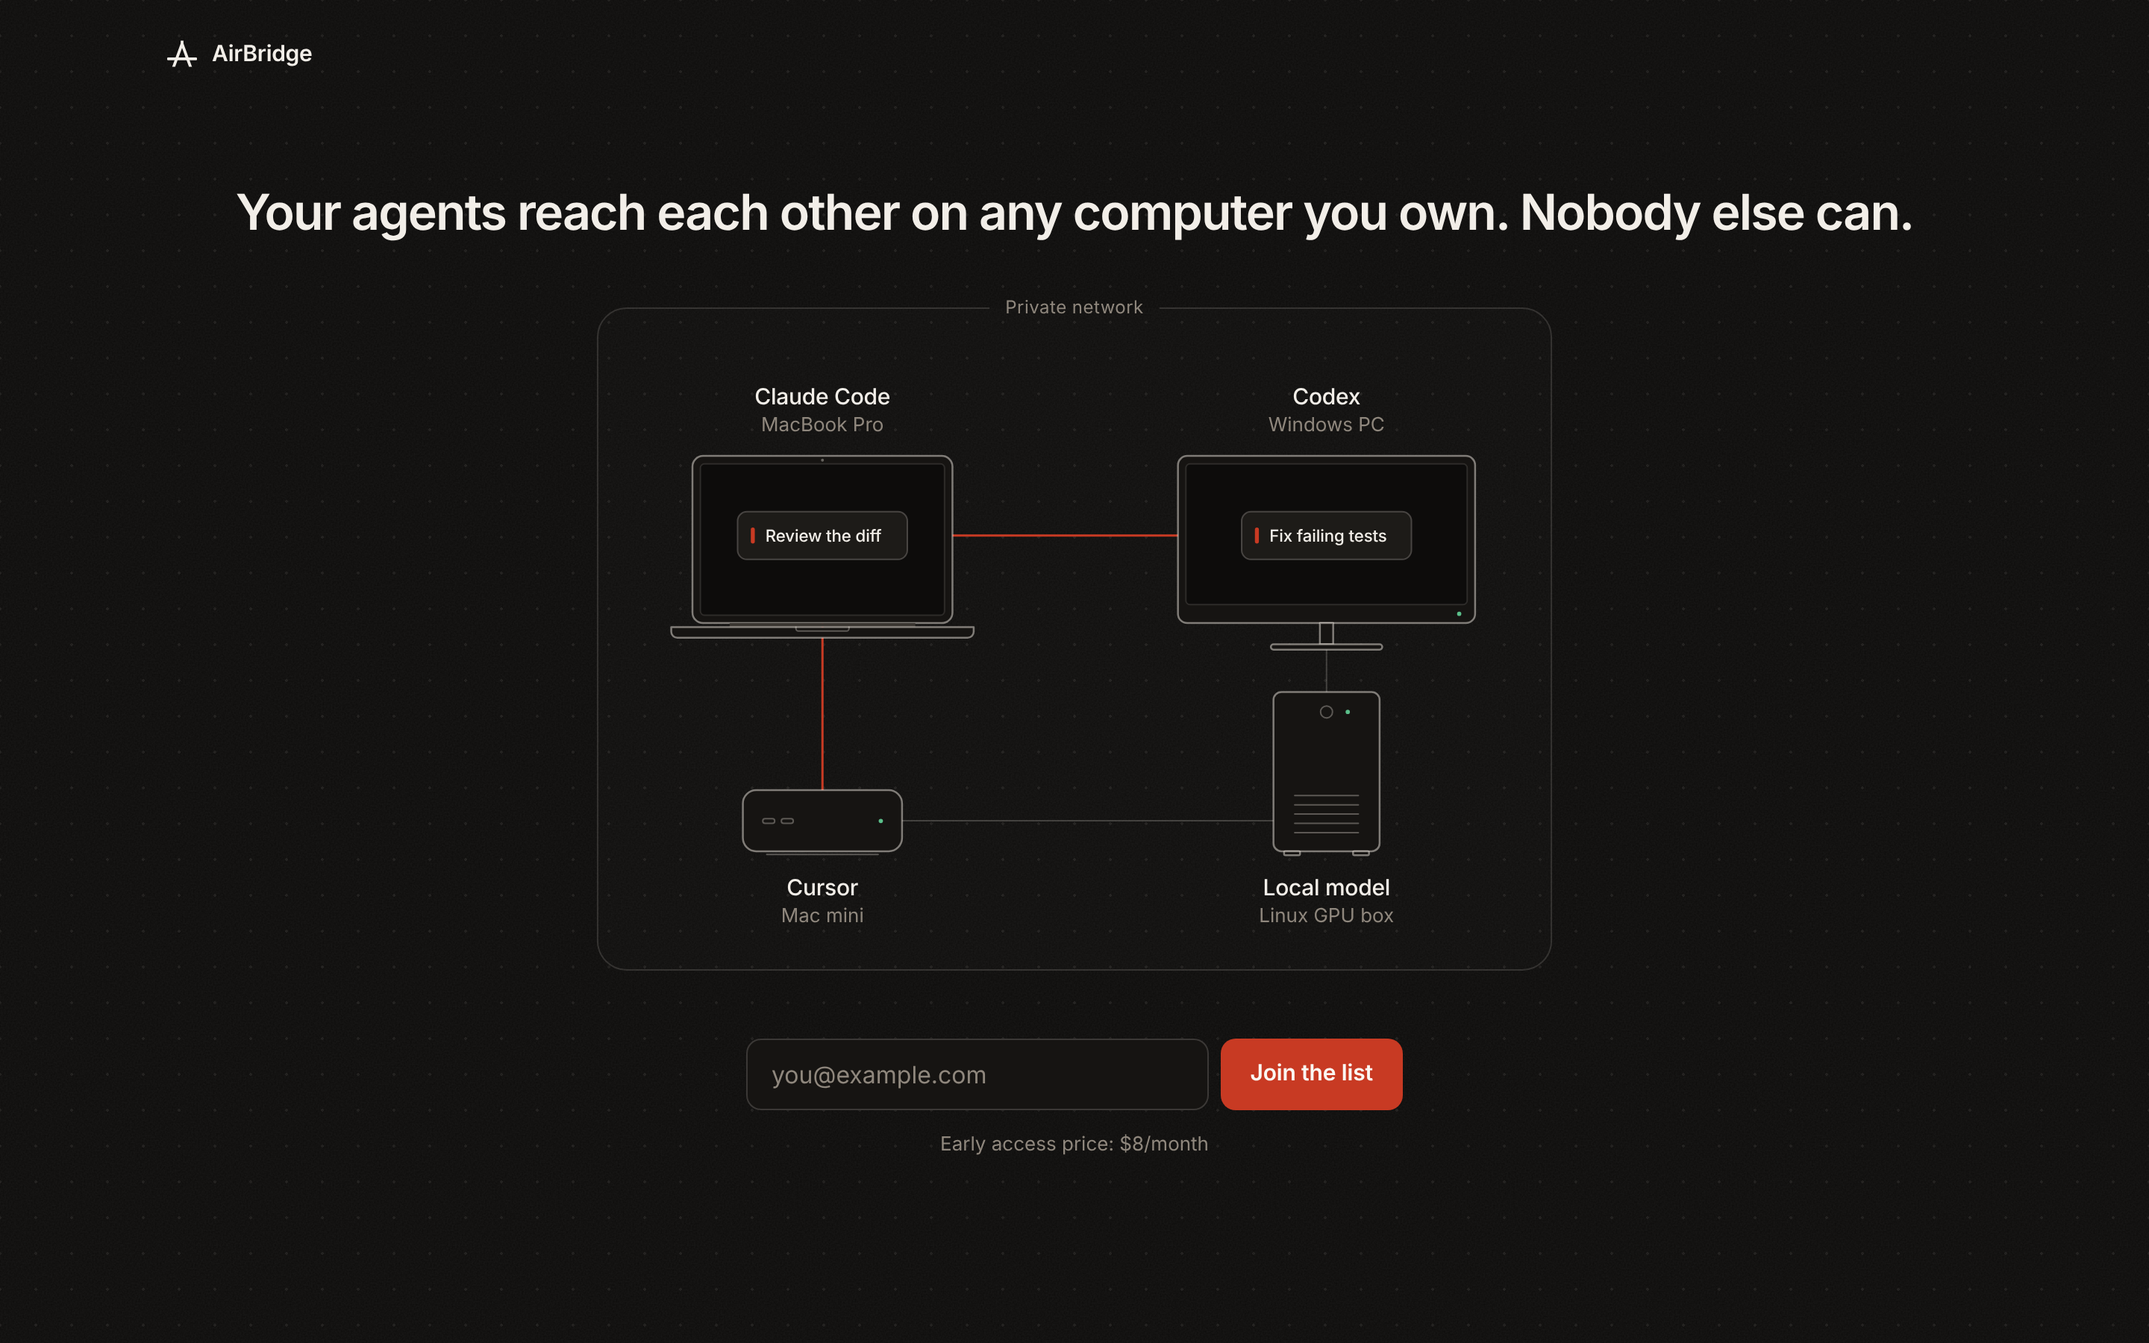
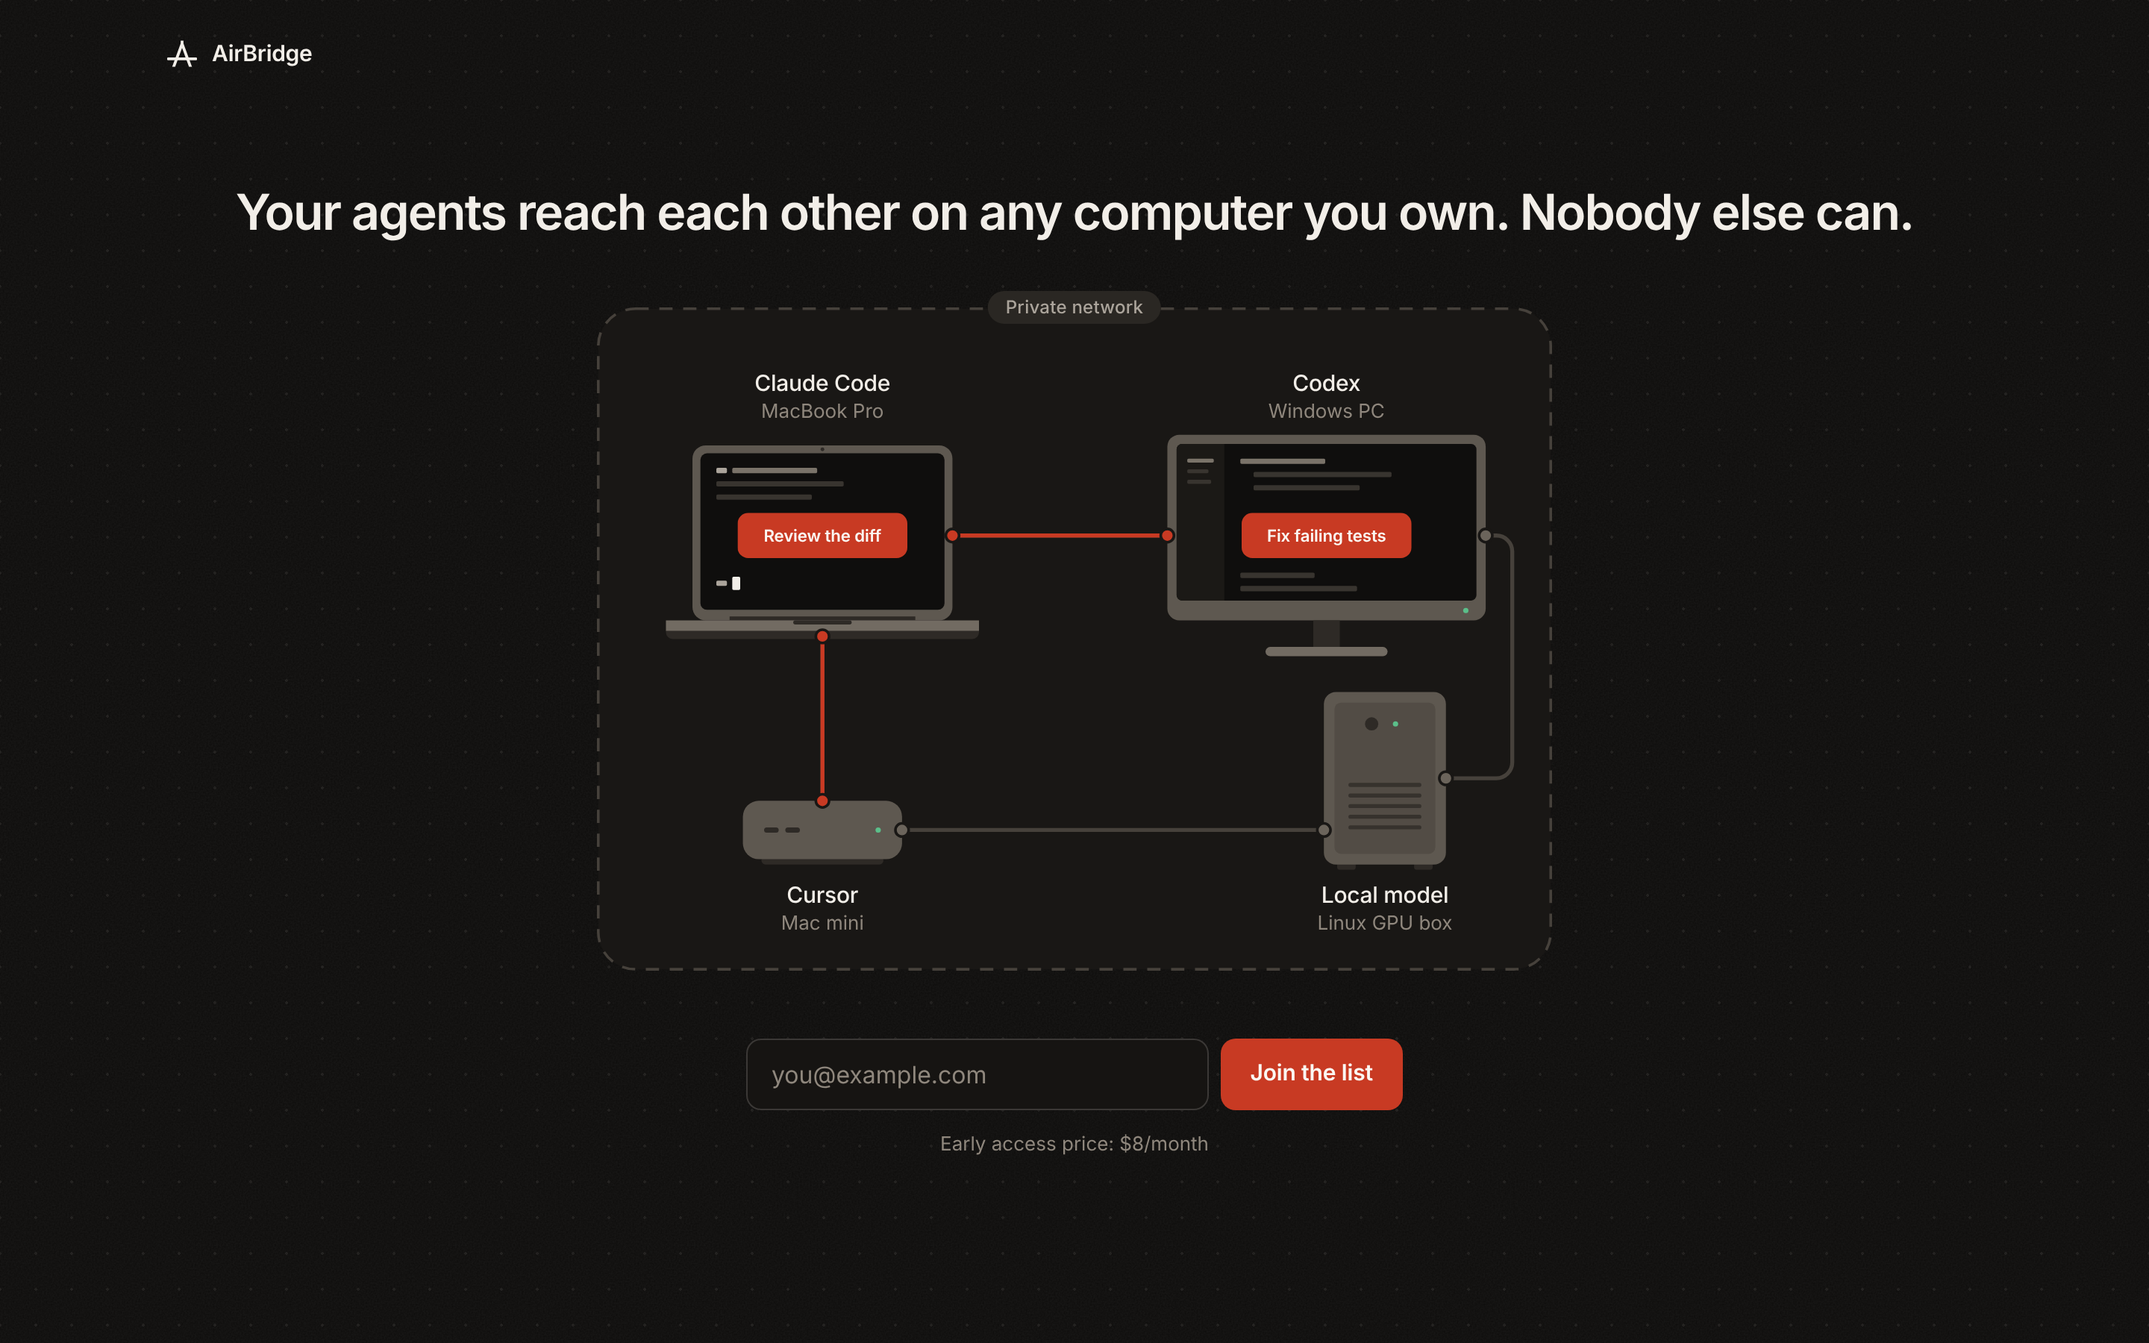
Landing: graphic filled illustration, separated monitor and GPU box
Claude-Session: https://claude.ai/code/session_01TELfCwuXZ5Qk43sSRkKQuj

Changed region(s): [[0.3438, 0.28, 0.7188, 0.7156], [0.3125, 0.28, 0.4688, 0.4978], [0.4688, 0.2178, 0.5312, 0.2489]]

diff --git a/landing/index.html b/landing/index.html
@@ -37,65 +37,84 @@
 
     <figure class="viz" role="img" aria-label="Four of your computers, each running an AI tool, joined in one private network. A task goes from Claude Code on a MacBook to Codex on a Windows PC, then another from Cursor on a Mac mini back to the MacBook.">
       <svg viewBox="0 0 720 500" aria-hidden="true" focusable="false">
-        <rect class="fence-fill" x="0.5" y="0.5" width="719" height="499" rx="22"/>
-        <path class="fence fence-wide" d="M424 0.5H697.5A22 22 0 0 1 719.5 22.5V477.5A22 22 0 0 1 697.5 499.5H22.5A22 22 0 0 1 0.5 477.5V22.5A22 22 0 0 1 22.5 0.5H296"/>
-        <path class="fence fence-narrow" d="M460 0.5H697.5A22 22 0 0 1 719.5 22.5V477.5A22 22 0 0 1 697.5 499.5H22.5A22 22 0 0 1 0.5 477.5V22.5A22 22 0 0 1 22.5 0.5H260"/>
+        <rect class="panel" x="1" y="1" width="718" height="498" rx="28"/>
 
-        <!-- links: a closed ring between the four machines; no hub, no server -->
-        <path class="rail" d="M170 172H550V387H170Z"/>
-        <path class="span span-1" d="M170 172H550" pathLength="1"/>
-        <path class="span span-2" d="M170 387V172" pathLength="1"/>
+        <!-- links: a closed ring, body to body; no hub, no server -->
+        <path class="rail" d="M268 172H430M670 172H678a12 12 0 0 1 12 12V343a12 12 0 0 1-12 12H640M230 394H548M170 248V372"/>
+        <path class="span span-1" d="M268 172H430" pathLength="1"/>
+        <path class="span span-2" d="M170 372V248" pathLength="1"/>
 
-        <!-- MacBook: lid, display, camera, hinge, base with thumb scoop -->
-        <g class="device">
-          <rect class="body" x="72" y="112" width="196" height="126" rx="8"/>
-          <rect class="display" x="78" y="118" width="184" height="114" rx="3"/>
-          <circle class="dot" cx="170" cy="115.2" r="1.1"/>
-          <rect class="hinge" x="100" y="238" width="140" height="3"/>
-          <path class="body" d="M56 241h228v3.5a4.5 4.5 0 0 1-4.5 4.5H60.5a4.5 4.5 0 0 1-4.5-4.5Z"/>
-          <path class="detail" d="M150 241v1.2a1.8 1.8 0 0 0 1.8 1.8h36.4a1.8 1.8 0 0 0 1.8-1.8V241"/>
+        <!-- MacBook running Claude Code: lid, terminal, hinge, base -->
+        <g class="m">
+          <rect class="m-body" x="72" y="104" width="196" height="132" rx="10"/>
+          <rect class="m-bezel" x="78" y="110" width="184" height="118" rx="5"/>
+          <circle class="m-dark" cx="170" cy="107" r="1.4"/>
+          <rect class="m-hi" x="90" y="121" width="8" height="4" rx="1"/>
+          <rect class="m-line" x="102" y="121" width="64" height="4" rx="1"/>
+          <rect class="m-line2" x="90" y="131" width="96" height="4" rx="1"/>
+          <rect class="m-line2" x="90" y="141" width="72" height="4" rx="1"/>
+          <rect class="m-hi" x="90" y="206" width="8" height="4" rx="1"/>
+          <rect class="m-caret" x="102" y="203" width="6" height="10" rx="1"/>
+          <rect class="m-dark" x="100" y="233" width="140" height="3"/>
+          <path class="m-top" d="M52 236h236v8H52Z"/>
+          <path class="m-dark" d="M52 244h236v1a5 5 0 0 1-5 5H57a5 5 0 0 1-5-5Z"/>
+          <rect class="m-dark" x="148" y="236" width="44" height="3" rx="1.5"/>
         </g>
 
-        <!-- Windows desktop: monitor with chin, power light, neck, foot -->
-        <g class="device">
-          <rect class="body" x="438" y="112" width="224" height="126" rx="7"/>
-          <rect class="display" x="444" y="118" width="212" height="106" rx="3"/>
-          <circle class="led" cx="650" cy="231" r="1.6"/>
-          <rect class="body" x="545" y="238" width="10" height="16"/>
-          <rect class="body" x="508" y="254" width="84" height="4" rx="2"/>
+        <!-- Windows PC running Codex: monitor, editor, chin light, neck, foot -->
+        <g class="m">
+          <rect class="m-body" x="430" y="96" width="240" height="140" rx="9"/>
+          <rect class="m-bezel" x="437" y="103" width="226" height="118" rx="4"/>
+          <path class="m-side" d="M441 103h32v118h-32a4 4 0 0 1-4-4V107a4 4 0 0 1 4-4Z"/>
+          <rect class="m-line" x="445" y="114" width="20" height="3" rx="1"/>
+          <rect class="m-line2" x="445" y="122" width="16" height="3" rx="1"/>
+          <rect class="m-line2" x="445" y="130" width="18" height="3" rx="1"/>
+          <rect class="m-line" x="485" y="114" width="64" height="4" rx="1"/>
+          <rect class="m-line2" x="495" y="124" width="104" height="4" rx="1"/>
+          <rect class="m-line2" x="495" y="134" width="80" height="4" rx="1"/>
+          <rect class="m-line2" x="485" y="200" width="56" height="4" rx="1"/>
+          <rect class="m-line2" x="485" y="210" width="88" height="4" rx="1"/>
+          <circle class="led" cx="655" cy="228.5" r="2"/>
+          <rect class="m-dark" x="540" y="236" width="20" height="20"/>
+          <rect class="m-top" x="504" y="256" width="92" height="7" rx="3.5"/>
         </g>
 
-        <!-- Mac mini: low square body, two front ports, power light, foot ring -->
-        <g class="device">
-          <rect class="body" x="110" y="364" width="120" height="46" rx="10"/>
-          <rect class="detail" x="125" y="385.5" width="9" height="3.5" rx="1.75"/>
-          <rect class="detail" x="139" y="385.5" width="9" height="3.5" rx="1.75"/>
-          <circle class="led" cx="214" cy="387.2" r="1.6"/>
-          <path class="detail" d="M128 412.5h84"/>
+        <!-- Mac mini running Cursor: body, ports, light, foot -->
+        <g class="m">
+          <rect class="m-dark" x="124" y="414" width="92" height="6" rx="3"/>
+          <rect class="m-body" x="110" y="372" width="120" height="44" rx="12"/>
+          <rect class="m-dark" x="126" y="392" width="11" height="4" rx="2"/>
+          <rect class="m-dark" x="142" y="392" width="11" height="4" rx="2"/>
+          <circle class="led" cx="212" cy="394" r="2"/>
         </g>
 
-        <!-- GPU tower: case, power button, light, front vents, feet -->
-        <g class="device">
-          <rect class="body" x="510" y="290" width="80" height="120" rx="6"/>
-          <circle class="detail" cx="550" cy="305" r="4.5"/>
-          <circle class="led" cx="566" cy="305" r="1.6"/>
-          <path class="detail" d="M526 368h48M526 375h48M526 382h48M526 389h48M526 396h48"/>
-          <rect class="body" x="518" y="410" width="12" height="3" rx="1"/>
-          <rect class="body" x="570" y="410" width="12" height="3" rx="1"/>
+        <!-- Linux GPU box running a local model: case, panel, button, light, vents, feet -->
+        <g class="m">
+          <rect class="m-dark" x="558" y="418" width="14" height="6" rx="2"/>
+          <rect class="m-dark" x="616" y="418" width="14" height="6" rx="2"/>
+          <rect class="m-body" x="548" y="290" width="92" height="130" rx="9"/>
+          <rect class="m-panel" x="556" y="298" width="76" height="114" rx="5"/>
+          <circle class="m-dark" cx="584" cy="314" r="5"/>
+          <circle class="led" cx="602" cy="314" r="2"/>
+          <path class="m-vent" d="M568 360h52M568 368h52M568 376h52M568 384h52M568 392h52"/>
         </g>
 
-        <!-- tasks: each is drawn where it ends up; the animation brings it there once -->
+        <!-- nodes where links meet machines; the two used links light up -->
+        <circle class="node node-1" cx="268" cy="172" r="5"/><circle class="node node-1" cx="430" cy="172" r="5"/>
+        <circle class="node node-2" cx="170" cy="248" r="5"/><circle class="node node-2" cx="170" cy="372" r="5"/>
+        <circle class="node" cx="230" cy="394" r="5"/><circle class="node" cx="548" cy="394" r="5"/>
+        <circle class="node" cx="670" cy="172" r="5"/><circle class="node" cx="640" cy="355" r="5"/>
+
+        <!-- tasks: drawn where they end up; the animation brings each there once -->
         <g class="card card-1">
-          <rect class="card-bg" x="486" y="154" width="128" height="36" rx="7"/>
-          <rect class="card-tick" x="496" y="166" width="3" height="12" rx="1.5"/>
-          <text class="card-text" x="507" y="176.5">Fix failing tests</text>
-          <g class="card-skel"><rect x="507" y="165" width="64" height="5" rx="2.5"/><rect x="507" y="175" width="42" height="5" rx="2.5"/></g>
+          <rect class="card-bg" x="486" y="155" width="128" height="34" rx="8"/>
+          <text class="card-text" x="550" y="176.5" text-anchor="middle">Fix failing tests</text>
+          <g class="card-skel"><rect x="506" y="164" width="72" height="5" rx="2.5"/><rect x="506" y="174" width="48" height="5" rx="2.5"/></g>
         </g>
         <g class="card card-2">
-          <rect class="card-bg" x="106" y="154" width="128" height="36" rx="7"/>
-          <rect class="card-tick" x="116" y="166" width="3" height="12" rx="1.5"/>
-          <text class="card-text" x="127" y="176.5">Review the diff</text>
-          <g class="card-skel"><rect x="127" y="165" width="56" height="5" rx="2.5"/><rect x="127" y="175" width="38" height="5" rx="2.5"/></g>
+          <rect class="card-bg" x="106" y="155" width="128" height="34" rx="8"/>
+          <text class="card-text" x="170" y="176.5" text-anchor="middle">Review the diff</text>
+          <g class="card-skel"><rect x="126" y="164" width="64" height="5" rx="2.5"/><rect x="126" y="174" width="44" height="5" rx="2.5"/></g>
         </g>
       </svg>
       <figcaption class="labels" aria-hidden="true">

diff --git a/landing/styles.css b/landing/styles.css
@@ -86,44 +86,54 @@ h1 {
 .viz { position: relative; width: min(640px, 100%); margin: clamp(36px, 5vh, 56px) 0 0; }
 .viz svg { display: block; width: 100%; height: auto; overflow: visible; }
 
-/* One stroke weight for every drawing; strokes do not scale with the figure. */
-.viz svg * { vector-effect: non-scaling-stroke; }
-.fence-fill { fill: rgb(var(--line) / 0.012); }
-.fence { fill: none; stroke: rgb(var(--line) / 0.14); stroke-width: 1; }
-.fence-narrow { display: none; }
-.rail { fill: none; stroke: rgb(var(--line) / 0.2); stroke-width: 1; }
-.span { fill: none; stroke: var(--accent); stroke-width: 1.5; stroke-linecap: round; stroke-dasharray: 1 1; stroke-dashoffset: 0; }
+/* Flat, filled machines in warm greys; orange only for the links in use and the tasks. */
+.panel { fill: #191715; stroke: #46413b; stroke-width: 2; stroke-dasharray: 10 8; }
+.rail { fill: none; stroke: #46413b; stroke-width: 3; stroke-linecap: round; stroke-linejoin: round; }
+.span { fill: none; stroke: var(--accent); stroke-width: 3; stroke-linecap: round; stroke-dasharray: 1 1; stroke-dashoffset: 0; }
+.node { fill: #6b645b; stroke: #191715; stroke-width: 2; }
+.node-1, .node-2 { fill: var(--accent); }
 
-.device .body { fill: var(--surface-1); stroke: rgb(var(--line) / 0.46); stroke-width: 1.25; stroke-linejoin: round; }
-.device .display { fill: var(--canvas); stroke: rgb(var(--line) / 0.12); stroke-width: 1; }
-.device .detail { fill: none; stroke: rgb(var(--line) / 0.3); stroke-width: 1; stroke-linecap: round; }
-.device .hinge { fill: #3a3631; }
-.device .dot { fill: rgb(var(--line) / 0.35); }
-.device .led { fill: var(--ok); }
+.m-body { fill: #5e5850; }
+.m-top { fill: #726b62; }
+.m-dark { fill: #2e2a26; }
+.m-bezel { fill: #0f0e0d; }
+.m-side { fill: #1b1916; }
+.m-panel { fill: #524c45; }
+.m-line { fill: #7a7369; }
+.m-line2 { fill: #38342f; }
+.m-hi { fill: #aba49b; }
+.m-caret { fill: #f2eee8; }
+.m-vent { fill: none; stroke: #36322d; stroke-width: 3; stroke-linecap: round; }
+.led { fill: var(--ok); }
 
-.card-bg { fill: var(--surface-2); stroke: rgb(var(--line) / 0.22); stroke-width: 1; }
-.card-tick { fill: var(--accent); }
-.card-text { fill: var(--ink); font-family: var(--sans); font-size: 12.5px; font-weight: 500; letter-spacing: -0.005em; }
-.card-skel { display: none; fill: rgb(var(--line) / 0.32); }
+.card-bg { fill: var(--accent); }
+.card-text { fill: var(--accent-fg); font-family: var(--sans); font-size: 12.5px; font-weight: 600; letter-spacing: -0.005em; }
+.card-skel { display: none; fill: rgb(251 248 243 / 0.85); }
 
 /* Two calm, one-time hand-offs, then everything is still. */
 .card-1 { animation: across 2.4s cubic-bezier(0.65, 0, 0.35, 1) 0.8s both; }
 .span-1 { animation: draw 2.4s cubic-bezier(0.65, 0, 0.35, 1) 0.8s both; }
 .card-2 { animation: up 2s cubic-bezier(0.65, 0, 0.35, 1) 3.8s both; }
 .span-2 { animation: draw 2s cubic-bezier(0.65, 0, 0.35, 1) 3.8s both; }
+.node-1 { animation: lit 0.3s linear 0.8s both; }
+.node-2 { animation: lit 0.3s linear 3.8s both; }
 @keyframes across {
   0% { transform: translateX(-380px); opacity: 0; }
   8% { opacity: 1; }
   100% { transform: translateX(0); opacity: 1; }
 }
 @keyframes up {
-  0% { transform: translateY(215px); opacity: 0; }
+  0% { transform: translateY(222px); opacity: 0; }
   10% { opacity: 1; }
   100% { transform: translateY(0); opacity: 1; }
 }
 @keyframes draw {
   from { stroke-dashoffset: 1; }
   to { stroke-dashoffset: 0; }
+}
+@keyframes lit {
+  from { fill: #6b645b; }
+  to { fill: var(--accent); }
 }
 
 .labels { position: absolute; inset: 0; pointer-events: none; }
@@ -134,14 +144,14 @@ h1 {
 }
 .lbl b { font-size: 15px; font-weight: 500; color: var(--ink); letter-spacing: -0.01em; }
 .lbl.up { transform: translate(-50%, -100%); }
-.at-1 { left: calc(100% * 170 / 720); top: calc(100% * 100 / 500); }
-.at-2 { left: calc(100% * 550 / 720); top: calc(100% * 100 / 500); }
-.at-3 { left: calc(100% * 170 / 720); top: calc(100% * 426 / 500); }
-.at-4 { left: calc(100% * 550 / 720); top: calc(100% * 426 / 500); }
+.at-1 { left: calc(100% * 170 / 720); top: calc(100% * 90 / 500); }
+.at-2 { left: calc(100% * 550 / 720); top: calc(100% * 90 / 500); }
+.at-3 { left: calc(100% * 170 / 720); top: calc(100% * 432 / 500); }
+.at-4 { left: calc(100% * 594 / 720); top: calc(100% * 432 / 500); }
 .fence-lbl {
   position: absolute; left: 50%; top: 0; transform: translate(-50%, -50%);
-  padding: 0;
-  font-size: 12px; line-height: 1; letter-spacing: 0.02em; color: var(--ink-faint);
+  padding: 5px 12px; border-radius: 999px; background: #2a2723;
+  font-size: 12px; line-height: 1; font-weight: 500; letter-spacing: 0.01em; color: var(--ink-muted);
 }
 
 /* ---------- form */
@@ -207,8 +217,6 @@ button:disabled { cursor: progress; opacity: 0.7; }
   .lbl { font-size: 11px; }
   .lbl b { font-size: 13px; }
   .fence-lbl { font-size: 11px; }
-  .fence-wide { display: none; }
-  .fence-narrow { display: inline; }
   .facts ul { padding: 40px 0 32px; gap: 12px; }
   .facts li { font-size: 15px; }
 }
@@ -218,6 +226,6 @@ button:disabled { cursor: progress; opacity: 0.7; }
 }
 
 @media (prefers-reduced-motion: reduce) {
-  .card, .span { animation: none; }
+  .card, .span, .node { animation: none; }
   input, button { transition: none; }
 }

diff --git a/landing/tools/og.html b/landing/tools/og.html
@@ -4,16 +4,22 @@
 <style>
   /* No film grain here: noise does not compress, and it is invisible at share-card size. */
   body { width: 1200px; height: 630px; min-height: 0; margin: 0; overflow: hidden; background-image: radial-gradient(rgb(var(--line) / 0.07) 1px, transparent 1px); background-size: 24px 24px; background-position: 12px 12px; }
-  .og { position: relative; width: 1200px; height: 630px; padding: 72px 80px; display: flex; flex-direction: column; justify-content: space-between; }
-  .og .brand { font-size: 26px; gap: 16px; }
-  .og .mark { width: 34px; height: 34px; }
-  .og h1 { font-size: 64px; line-height: 1.08; letter-spacing: -0.035em; text-align: left; }
+  .og { width: 1200px; height: 630px; padding: 64px 72px; display: grid; grid-template-columns: 1fr 520px; gap: 48px; align-items: center; }
+  .og .text { height: 100%; display: flex; flex-direction: column; justify-content: space-between; }
+  .og .brand { font-size: 26px; gap: 14px; }
+  .og .mark { width: 32px; height: 32px; fill: var(--accent); }
+  .og h1 { font-size: 54px; line-height: 1.08; letter-spacing: -0.035em; text-align: left; }
   .og h1 span { color: var(--ink-muted); }
-  .og .mark { fill: var(--accent); }
+  .og .viz { width: 520px; margin: 0; }
+  .og .lbl { font-size: 11px; } .og .lbl b { font-size: 13px; }
+  .og .fence-lbl { font-size: 11px; }
 </style></head>
 <body>
 <div class="og">
-  <div class="brand"><svg class="mark" viewBox="0 0 24 24"><path d="M10.875 1.5h2.25v2.3l6.825 18.7h-2.4L12 7.3 6.45 22.5h-2.4l6.825-18.7V1.5Z"/><rect x="0" y="15" width="24" height="2.25" rx="0.75"/></svg><span>AirBridge</span></div>
-  <h1>A private network<br>for your AI agents<br><span>and your computers.</span></h1>
+  <div class="text">
+    <div class="brand"><svg class="mark" viewBox="0 0 24 24"><path d="M10.875 1.5h2.25v2.3l6.825 18.7h-2.4L12 7.3 6.45 22.5h-2.4l6.825-18.7V1.5Z"/><rect x="0" y="15" width="24" height="2.25" rx="0.75"/></svg><span>AirBridge</span></div>
+    <h1>A private network for your AI agents <span>and your computers.</span></h1>
+  </div>
+  <!-- FIGURE: icons.mjs copies the hero figure from index.html here -->
 </div>
 </body></html>
